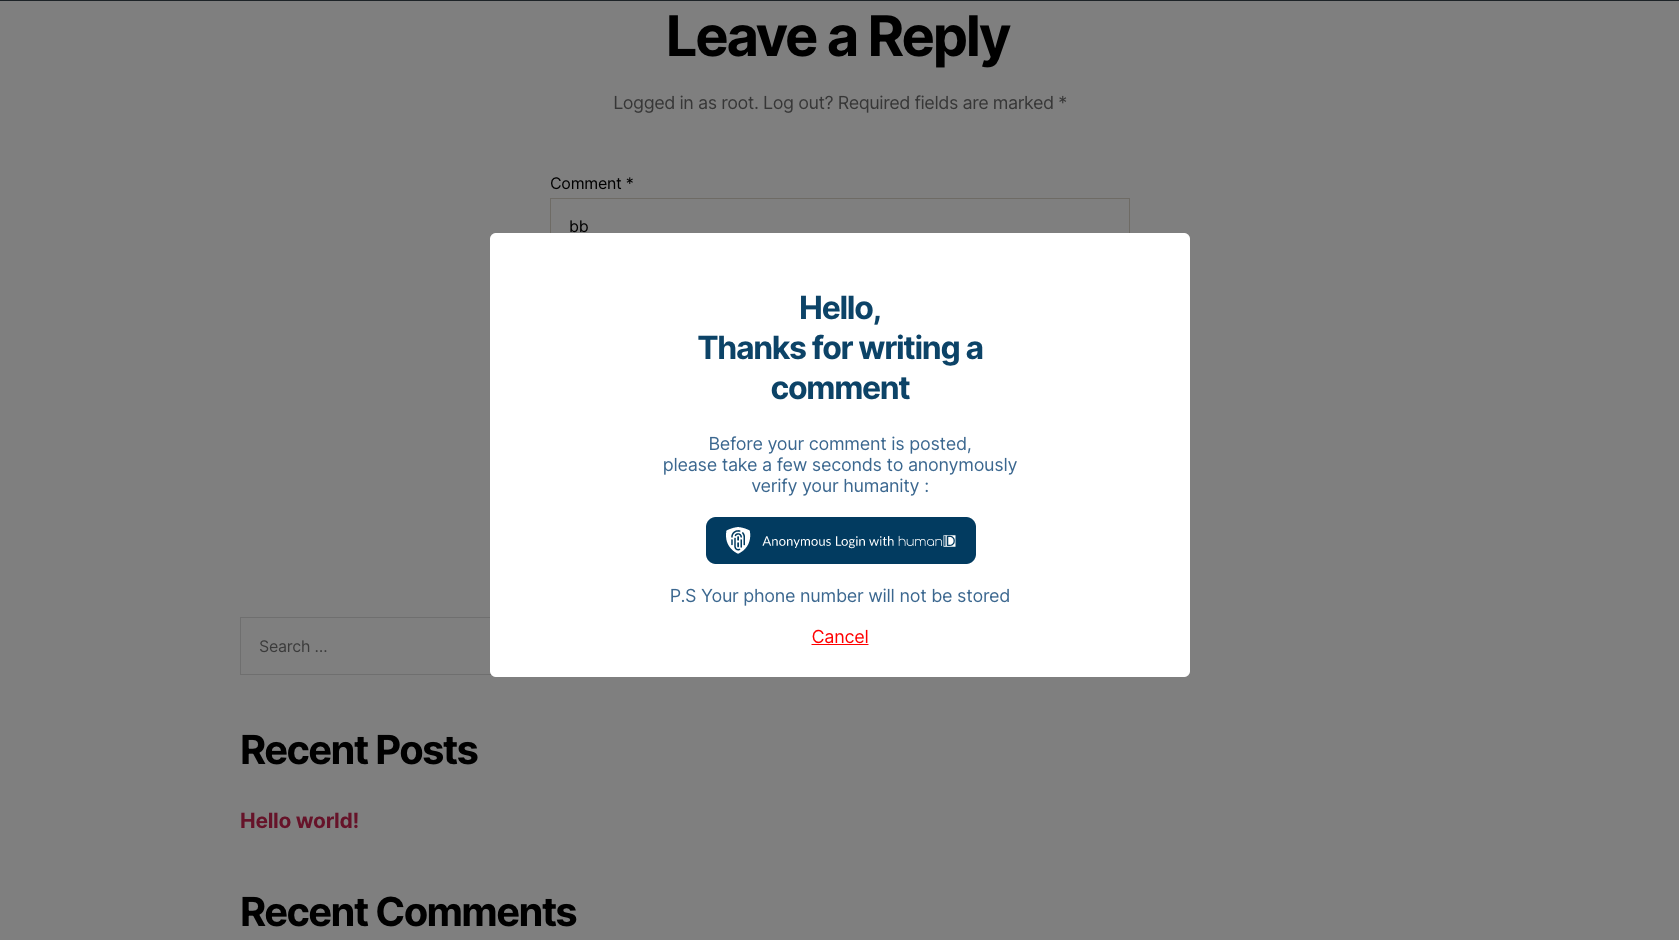
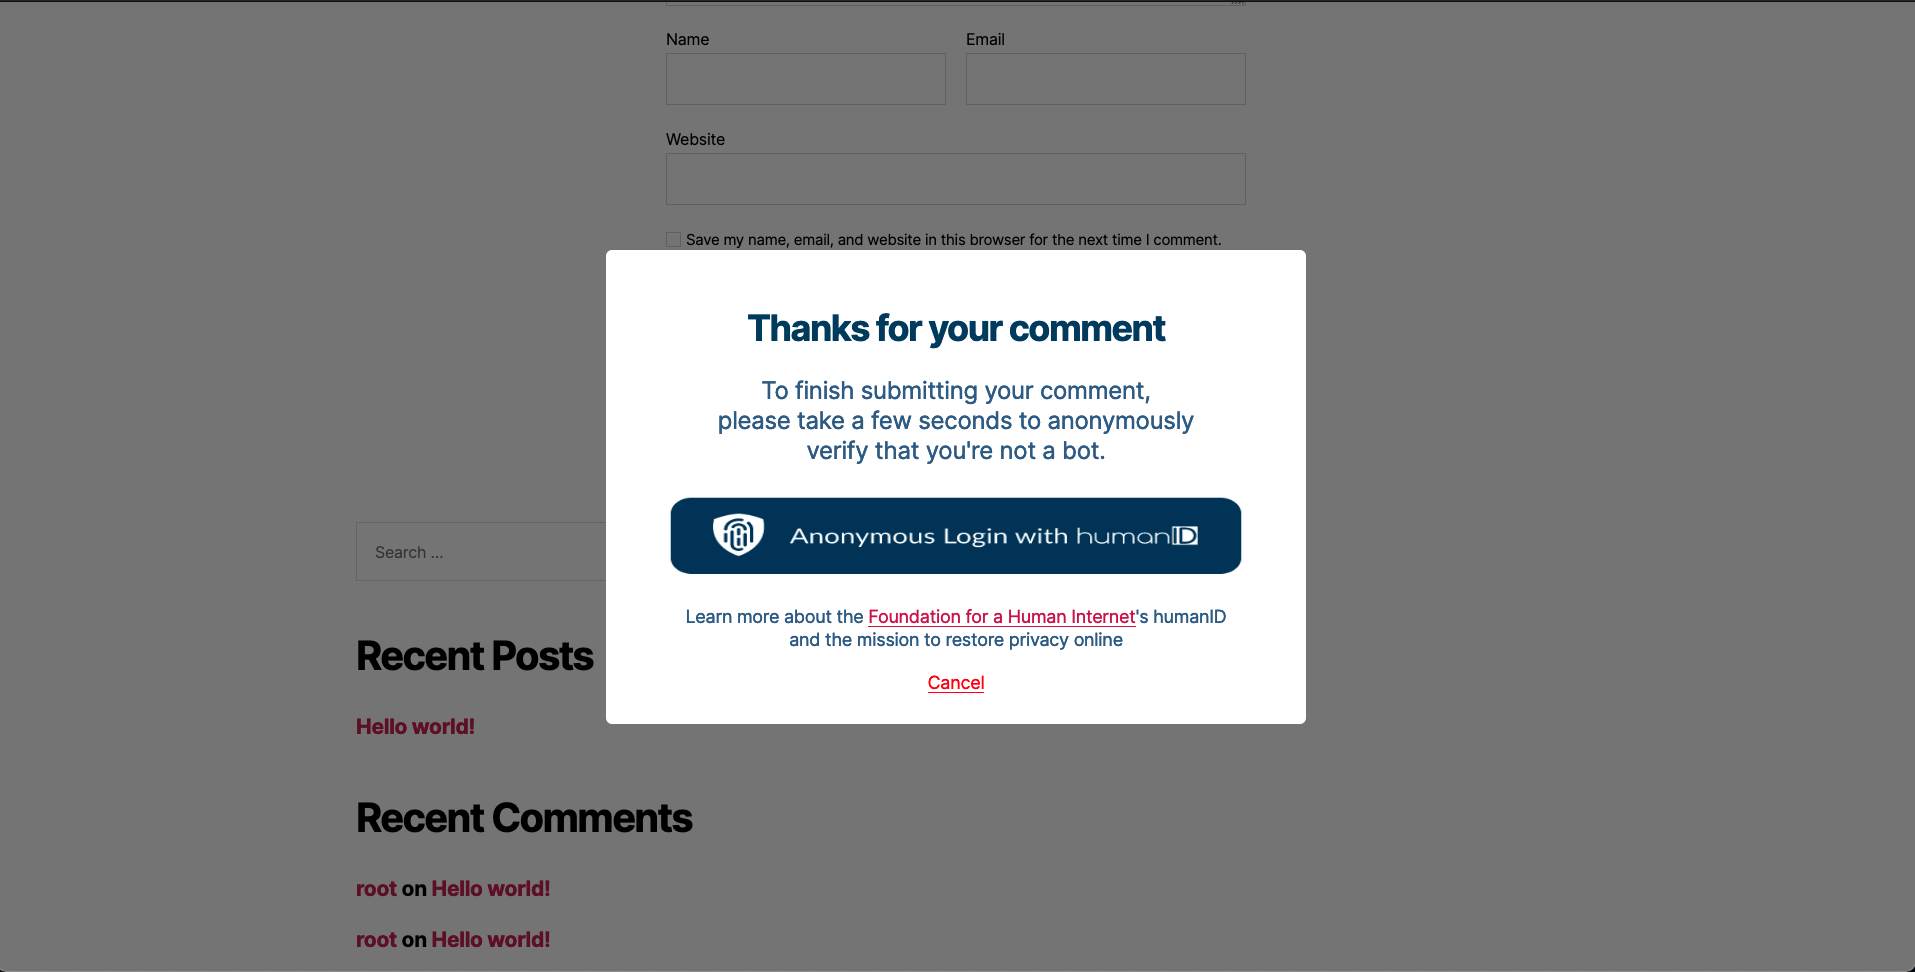
Update popup page

diff --git a/assets/css/app.css b/assets/css/app.css
@@ -71,6 +71,18 @@
   color: #3B678F;
 }
 
+.fs-18 {
+  font-size: 18px !important;
+}
+
+.fs-24 {
+  font-size: 24px !important;
+}
+
+.fs-36 {
+  font-size: 36px !important;
+}
+
 .hid-alert {
   border: solid white 2px;
   border-radius: 5px;
@@ -144,6 +156,11 @@
 }
 .hid-header .hid-header-menu ul li.active a {
   color: #0C4367;
+}
+
+#start-human-id-verification {
+  height: 100px;
+  width: 600px;
 }
 
 /*# sourceMappingURL=app.css.map */

diff --git a/assets/sass/_helpers.scss b/assets/sass/_helpers.scss
@@ -74,3 +74,15 @@
 .text-main-light {
   color: $main_color_light
 }
+
+.fs-18 {
+  font-size: 18px !important;
+}
+
+.fs-24 {
+  font-size: 24px !important;
+}
+
+.fs-36 {
+  font-size: 36px !important;
+}

diff --git a/assets/sass/main.scss b/assets/sass/main.scss
@@ -43,3 +43,8 @@
     }
   }
 }
+
+#start-human-id-verification {
+  height: 100px;
+  width: 600px;
+}

diff --git a/modules/verification/templates/popup.php b/modules/verification/templates/popup.php
@@ -10,9 +10,9 @@ $structure         = get_option( 'permalink_structure' );
 
 <div class="hid-modal hid-modal-large" id="human-id-verification-modal" style="display: none">
     <div class="hid-modal-content text-center text-main-light d-flex justify-content-center align-items-center flex-column">
-        <div>
-            <h4 class="text-main"><?php _e( "Thanks for your <br/>comment", HIDSF_TEXT_DOMAIN ) ?></h4>
-			<?php _e( "To finish submitting your comment,<br/> please take a few seconds to anonymously verify that you're not a bot using third-party service <a href='https://human-internet.org' target='_blank'>humanID</a>", HIDSF_TEXT_DOMAIN ) ?>
+        <div class="fs-24">
+            <h4 class="text-main fs-36"><?php _e( "Thanks for your comment", HIDSF_TEXT_DOMAIN ) ?></h4>
+			<?php _e( "To finish submitting your comment,<br/> please take a few seconds to anonymously <br/>verify that you're not a bot.", HIDSF_TEXT_DOMAIN ) ?>
         </div>
         <div class="margin-bottom-20 margin-top-20 text-center">
             <div>
@@ -25,7 +25,7 @@ $structure         = get_option( 'permalink_structure' );
 						<?php _e( "Please complete the plugin setup", HIDSF_TEXT_DOMAIN ) ?>
                     </a>
 				<?php else: ?>
-                    <img src="<?php echo HIDSF_ASSET_URL . '/images/anonymous_login.png' ?>" alt="" class="pointer" width="350px"
+                    <img src="<?php echo HIDSF_ASSET_URL . '/images/anonymous_login.png' ?>" alt="" class="pointer"
                          id="start-human-id-verification"/>
 				<?php endif; ?>
             </div>
@@ -37,9 +37,10 @@ $structure         = get_option( 'permalink_structure' );
 				<?php _e( "An error occurred. Please try again", HIDSF_TEXT_DOMAIN ) ?>
             </div>
         </div>
-        <div class="margin-bottom-20 margin-top-20">
-            <span class="text-underline text-danger pointer"
-                  id="close-human-id-verification"><?php _e( "Cancel", HIDSF_TEXT_DOMAIN ) ?></span>
+        <div class="margin-bottom-20 margin-top-1h0 fs-18">
+            <div class="fs-18"> <?php _e( "Learn more about the <a href='https://human-internet.org' target='_blank'>Foundation for a Human Internet</a>'s humanID <br/>and the mission to restore privacy online", HIDSF_TEXT_DOMAIN ) ?></div>
+            <div class="text-underline text-danger pointer margin-top-20 fs-18"
+                  id="close-human-id-verification"><?php _e( "Cancel", HIDSF_TEXT_DOMAIN ) ?></div>
         </div>
     </div>
 </div>

diff --git a/humanid-spam-filter.php b/humanid-spam-filter.php
@@ -7,8 +7,8 @@
  * @wordpress-plugin
  * Plugin Name: humanID – Anti-Spam Comment Filter || Stop junk comments & Protect your users' privacy. 100% open source.
  * Plugin URI: https://github.com/human-internet/humanid-spam-filter
- * Description: Anti-bot authentication created by the Foundation for a Human Internet, a Harvard & Mozilla-backed nonprofit
- * Version: 1.0.0
+ * Description: Replace ReCAPTCHA with a faster, user-friendly solution and block spammers & bots permanently
+ * Version: 1.0.1
  * Author: humanID
  * Author URI: https://human-id.org/
  * License: GPL-2.0+

diff --git a/core/HidSpamFilter.php b/core/HidSpamFilter.php
@@ -10,7 +10,7 @@ class HidSpamFilter {
 
 	public function __construct() {
 		$this->blocked = get_option( "hidsf_blocked_today" );
-		self::$version = '1.0.0-alpha';
+		self::$version = '1.0.1';
 	}
 
 	/**
